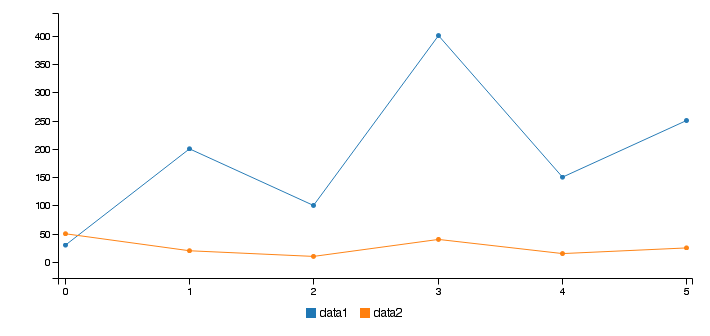
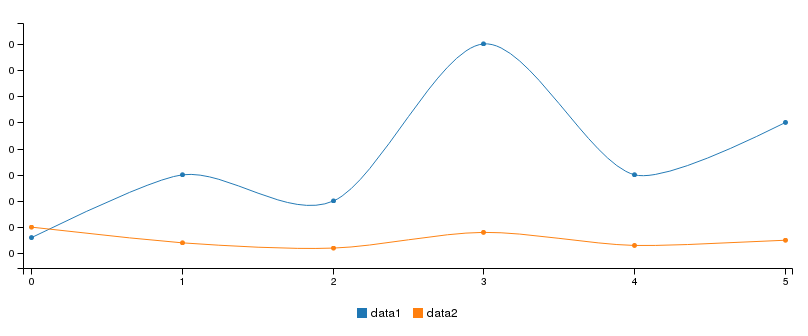
* Added PHP example script for exporting c3 with phantomjs * renamed exporter to c3-export.js * added pollyfill * fixed misleading comment in exporter

diff --git a/extensions/exporter/c3-export.js b/extensions/exporter/c3-export.js
@@ -1,0 +1,147 @@
+/**
+*  PNG\JPEG exporter for C3.js, version 0.2
+*  (c) 2014 Yuval Bar-On
+*
+* usage: path/to/phantomjs phantom-exporter.js output options [WxH]
+*
+*/
+
+// useful python-styled string formatting, "hello {0}! Javascript is {1}".format("world", "awesome");
+if (!String.prototype.format) {
+  String.prototype.format = function() {
+    var args = arguments;
+    return this.replace(/{(\d+)}/g, function(match, number) { 
+      return typeof args[number] != 'undefined'
+        ? args[number]
+        : match
+      ;
+    });
+  };
+}
+
+// required polyfill, and see dicussion https://github.com/masayuki0812/c3/issues/552#issuecomment-55269072
+Function.prototype.bind = Function.prototype.bind || function (thisp) {
+  var fn = this;
+  return function () {
+    return fn.apply(thisp, arguments);
+  };
+};
+
+// defaults
+var page   = require('webpage').create(),
+    fs     = require('fs'),
+    system = require('system'),
+    config = JSON.parse( fs.read('config.json') );
+
+if (system.args.length < 3 ) {
+    console.log('Usage: phantasm.js filename html [WxH]');
+    phantom.exit(1);
+} else {
+    out  = system.args[1];
+    opts = JSON.parse( system.args[2] );
+
+    if (system.args[3]) {
+        var dimensions = system.args[3].split('x'),
+            width      = dimensions[0],
+            height     = dimensions[1];
+
+        function checkNum(check) {
+            check = parseInt(check);
+            if (!isNaN(check))
+                return check;
+            return false;
+        }
+
+        width  = checkNum(width);
+        height = checkNum(height);
+
+        if (width && height) {
+            page.viewportSize = {
+                height: height,
+                width: width
+            }
+        }
+
+        // fit chart size to img size, if undefined
+        if (!opts.size) {
+            opts.size = {
+                "height": height,
+                "width": width
+            };
+        }
+    } else {
+        // check if size is defined in chart, 
+        // else apply defaults
+        page.viewportSize = {
+            height: (opts.size && opts.size.height) ? opts.size.height : 320,
+            width:  (opts.size && opts.size.width ) ? opts.size.width  : 710
+        }
+    }
+}
+
+page.onResourceRequested = function(requestData) {
+  console.log('::loading resource ', requestData['url']);
+};  
+
+// helpful debug functions
+page.onConsoleMessage = function(msg){
+    console.log(msg);
+};
+
+page.onError = function(msg, trace) {
+  var msgStack = ['ERROR: ' + msg];
+
+  if (trace && trace.length) {
+    msgStack.push('TRACE:');
+    trace.forEach(function(t) {
+      msgStack.push(' -> ' + t.file + ': ' + t.line + (t.function ? ' (in function "' + t.function +'")' : ''));
+    });
+  }
+
+  console.error(msgStack.join('\n'));
+};
+
+// render page
+function injectVerify(script) {
+    var req = page.injectJs(script);
+    if (!req) { 
+        console.log( '\nError!\n' + script + ' not found!\n' );
+        phantom.exit(1); 
+    }
+}
+
+page.onLoadFinished = function() {
+    console.log('::rendering');
+
+    for (var j in config.js) {
+        injectVerify(config.js[j]);
+    }
+
+    page.evaluate(function(chartoptions) {
+        // phantomjs doesn't know how to handle .bind, so we override
+        Function.prototype.bind = Function.prototype.bind || function (thisp) {
+          var fn = this;
+          return function () {
+            return fn.apply(thisp, arguments);
+          };
+        };
+
+        // generate chart
+        c3.generate(chartoptions);
+
+    }, opts);
+
+// setting transition to 0 has proven not to work thus far, but 300ms isn't much
+// so this is acceptable for now
+    setTimeout(function() {
+        page.render(out);
+        phantom.exit();
+    }, 300);
+};
+
+//  apply css inline because that usually renders better
+var css = '';
+for (var i in config.css) {
+    css += fs.read(config.css[i]);
+}
+page.content = config.template.format(css);

diff --git a/extensions/exporter/simple-example.php b/extensions/exporter/simple-example.php
@@ -1,0 +1,39 @@
+<?php 
+/**
+* Simple PHP script for exporting a c3 chart using phantomjs
+*
+*/
+
+// Basic Configuration
+$phantom = '/path/to/phantomjs';
+$output  = 'test.png'; // other supported formats: PNG, PDF, JPEG, GIF
+$height  = 320;
+$width   = 800;
+$dimensions = "{$width}x{$height}";
+
+// C3 Chart Options
+$options = array(
+	"data" => array(
+		"columns" => array(
+			array("data1", 30, 150, 100, 400, 150, 250),
+            array('data2', 50, 20, 10, 40, 15, 25)
+		),
+		"type"    => "spline"
+	),
+	"padding" => array(
+		"top" => 10,
+		"bottom" => 10,
+		"right" => 15,
+		"left" => 15
+	),
+	"size" => array(
+		"width"  => $width,
+		"height" => $height
+	)
+);
+$options  = json_encode($options);
+
+$command = "$phantom c3-export.js $output '$options' $dimensions";
+echo("Executing Command:\n$command\n---------------------\n");
+exec($command);
+?>
